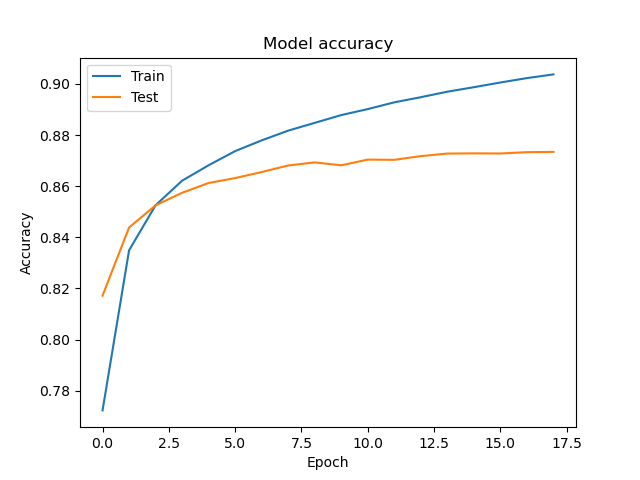
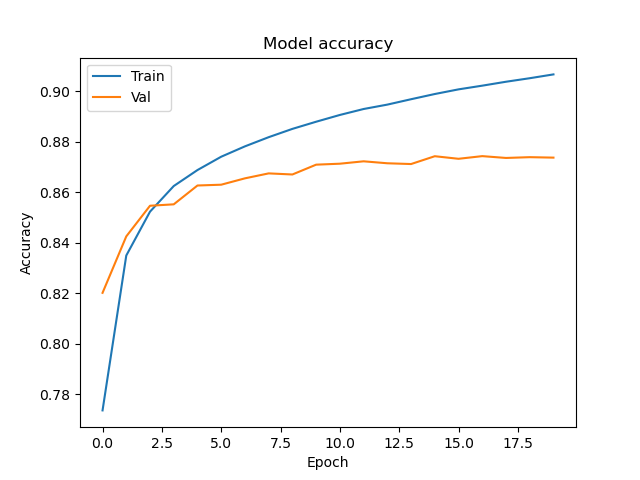
Code refactoring

diff --git a/NeuralNetKeras/Experiment.py b/NeuralNetKeras/Experiment.py
@@ -11,10 +11,10 @@ import numpy as np
 
 class Experiment:
     def __init__(self):
-        self.deepyed = load_model('./model/DeepYed.h5')
+        self.deepyed = load_model('NeuralNetKeras/model/DeepYed.h5')
 
     def play_against_stockfish(self):
-        stockfish = Stockfish('./engines/stockfish-12/stockfish.exe',
+        stockfish = Stockfish('engines/stockfish-12/stockfish.exe',
                               parameters={"Threads": 4, "Skill Level": 1})
 
         game = chess.pgn.Game()
@@ -25,12 +25,12 @@ class Experiment:
         game.headers["White"] = "DeepYed"
         game.headers["Black"] = 'Stockfish'
 
-        board = chess.Board()
+        board = chess.Board(fen='rnb2rk1/ppp2pp1/4pq1p/8/1bpP4/2N1PN2/PP3PPP/2RQKB1R w K - 0 9')
         history = []
         while not board.is_game_over():
             if board.turn:
                 print("DeepYed's Turn")
-                _, move = self.alphabeta(board, 3, -100, 100, True, board)
+                _, move = self.alphabeta(board, 1, -100, 100, True, board)
                 history.append(move)
                 board.push(move)
                 print(move)
@@ -86,52 +86,53 @@ class Experiment:
         return self.apply_siamese_network(bitboard_1, bitboard_2)[0][0]
 
     def alphabeta(self, board, depth, alpha, beta, white, orig_board):
+        """
         try:
             move = chess.polyglot.MemoryMappedReader('./books/Perfect2017-SF12.bin').weighted_choice(
                 board=orig_board).move
             return None, move
         except:
-            if depth == 0:
-                yed = self.compare_moves(board, orig_board)
-                return yed, None
-            if white:
-                v = -100  # very (relatively) small number
-                moves = board.generate_legal_moves()
-                moves = list(moves)
-                best_move = None
-                for move in moves:
-                    new_board = board.copy()
-                    new_board.push(move)
-                    candidate_v, _ = self.alphabeta(new_board, depth - 1, alpha, beta, True, orig_board)
-                    if candidate_v >= v:
-                        v = candidate_v
-                        best_move = move
-                    else:
-                        pass
-                    alpha = max(alpha, v)
-                    if beta <= alpha:
-                        break
-                return v, best_move
-            else:
-                v = 100  # very (relatively) large number
-                moves = board.generate_legal_moves()
-                moves = list(moves)
-                best_move = None
-                for move in moves:
-                    new_board = board.copy()
-                    new_board.push(move)
-                    candidate_v, _ = self.alphabeta(new_board, depth - 1, alpha, beta, False, orig_board)
-                    if candidate_v <= v:
-                        v = candidate_v
-                        best_move = move
-                    else:
-                        pass
-                    beta = min(beta, v)
-                    if beta <= alpha:
-                        break
-                return v, best_move
+        """
+        if depth == 0:
+            yed = self.compare_moves(board, orig_board)
+            return yed, None
+        if white:
+            v = -100  # very (relatively) small number
+            moves = board.generate_legal_moves()
+            moves = list(moves)
+            best_move = None
+            for move in moves:
+                new_board = board.copy()
+                new_board.push(move)
+                candidate_v, _ = self.alphabeta(new_board, depth - 1, alpha, beta, False, orig_board)
+                if candidate_v >= v:
+                    v = candidate_v
+                    best_move = move
+                alpha = max(alpha, v)
+                if beta <= alpha:
+                    break
+            return v, best_move
+        else:
+            v = 100  # very (relatively) large number
+            moves = board.generate_legal_moves()
+            moves = list(moves)
+            best_move = None
+            for move in moves:
+                new_board = board.copy()
+                new_board.push(move)
+                candidate_v, _ = self.alphabeta(new_board, depth - 1, alpha, beta, True, orig_board)
+                if candidate_v <= v:
+                    v = candidate_v
+                    best_move = move
+                else:
+                    pass
+                beta = min(beta, v)
+                if beta <= alpha:
+                    break
+            return v, best_move
 
-    def get_move_stockfish(self, board, stockfish):
+    @staticmethod
+    def get_move_stockfish(board, stockfish):
         fen = board.fen()
         stockfish.set_fen_position(fen)
 

diff --git a/NeuralNetKeras/SiameseNetwork.py b/NeuralNetKeras/SiameseNetwork.py
@@ -113,7 +113,7 @@ class DeepYed:
         plt.title('Model accuracy')
         plt.ylabel('Accuracy')
         plt.xlabel('Epoch')
-        plt.legend(['Train', 'Test'], loc='upper left')
+        plt.legend(['Train', 'Val'], loc='upper left')
         plt.savefig('NeuralNetKeras/figures/accuracy_siamese.png')
         plt.show()
 
@@ -123,7 +123,7 @@ class DeepYed:
         plt.title('Model loss')
         plt.ylabel('Loss')
         plt.xlabel('Epoch')
-        plt.legend(['Train', 'Test'], loc='upper left')
+        plt.legend(['Train', 'Val'], loc='upper left')
         plt.savefig('NeuralNetKeras/figures/loss_siamese.png')
         plt.show()
 

diff --git a/Heuristic/play.py b/Heuristic/play.py
@@ -91,7 +91,7 @@ class PlayChess:
             game.headers["Event"] = "Evalutation DeepYed vs Stockfish"
             game.headers["Site"] = "My PC"
             game.headers["Date"] = str(datetime.datetime.now().date())
-            game.headers["Round"] = i
+            game.headers["Round"] = str(i)
             game.headers["White"] = "DeepYed"
             game.headers["Black"] = 'Stockfish'
 
